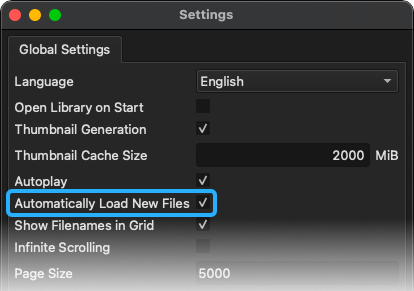
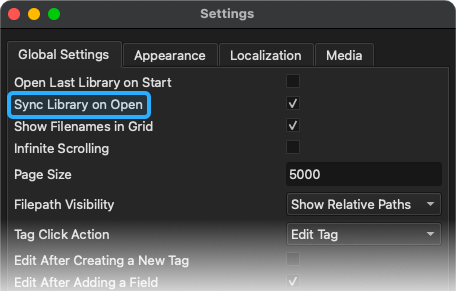
docs: update library sync documentation

diff --git a/docs/stylesheets/extra.css b/docs/stylesheets/extra.css
@@ -80,6 +80,7 @@ img {
 th,
 td {
     padding: 0.5em 1em 0.5em 1em !important;
+    min-width: 0 !important;
 }
 
 hr {

diff --git a/docs/libraries.md b/docs/libraries.md
@@ -33,13 +33,68 @@ To create or open a [library](libraries.md), go to **File -> Open/Create Library
 !!! info "Legacy Library Migration"
     If you open a library created with TagStudio **v9.4.2 or earlier** in **[v9.5.0](changelog.md#950-march-3rd-2025) or later**, you'll be walked through a migration process that converts the old `ts_library.json` save file to the new `ts_library.sqlite` format. The original JSON file is preserved and can be easily deleted from the **View -> Library Information** panel once you're satisfied with the migration.
 
-## :material-database-refresh: Refreshing Directories
+## :material-database-sync: Library Syncing
 
-TagStudio automatically scans for new or updated files when opening a library by default. This behavior can be toggled in the settings if your library is very large and/or located on a slow drive.
+A TagStudio library gets synced with the files found in your chosen content folders and certain metadata attributes (e.g. stats) found on those files. This is a **non-destructive, read-only** process and none of your content files are moved, modified, or deleted. Syncing is indicated by a temporary progress bar, and you can continue to use TagStudio normally while syncing occurs.
 
-![Settings -> Automatically Load New Files](assets/settings_refresh_library_on_open.png)
+Syncing automatically occurs when you open a library by default, and you can manually sync a library at any time by going to **File -> Sync Library** in the menubar to by pressing <kbd>Ctrl</kbd>+<kbd>R</kbd> (<kbd>⌘ Command </kbd>+<kbd>R</kbd> on macOS). If you do not wish for your library to be synced when opened, you can disable this behavior in the settings.
 
-To manually refresh your library at any time, use **File -> Refresh Directories** from the menu or by using <kbd>Ctrl</kbd>+<kbd>R</kbd> (<kbd>⌘ Command </kbd>+<kbd>R</kbd> on macOS).
+<figure markdown="span">
+  ![Settings -> Sync Library on Open](assets/settings_refresh_library_on_open.png)
+  <figcaption>
+  Settings -> Sync Library on Open
+  </figcaption>
+</figure>
+
+### :material-link-variant: Automatic Relinking
+
+Unlinked entries are file entries in your TagStudio library that have become "unlinked" from their original file on disk, likely as a result of the original file being renamed, moved, or deleted. TagStudio attempts to automatically relink any of these entries as a part of the syncing process, but there are some scenarios where automatic relinking is not possible or too ambiguous and requires a manual review. Below is a complete table of every scenario in which file entries can become unlinked, and whether or not TagStudio can auto-relink them:
+
+|     Case | File Moved? | File Renamed? | File Modified? | Unlinked Entries | Matched Files |             Auto-Relink             |
+| -------: | :---------: | :-----------: | :------------: | :--------------: | :-----------: | :---------------------------------: |
+|  **\#0** |    _No_     |     _No_      |    **Yes**     |        0         |       —       | :material-minus-circle:{.lg .gray}  |
+|  **\#1** |      —      |       —       |       —        |        1         |       0       |  :material-close-circle:{.lg .red}  |
+|  **\#2** |   **Yes**   |    **Yes**    |    **Yes**     |        1         |       0       |  :material-close-circle:{.lg .red}  |
+|  **\#3** |   **Yes**   |    **Yes**    |      _No_      |        1         |       1       | :material-check-circle:{.lg .green} |
+|  **\#4** |   **Yes**   |    **Yes**    |      _No_      |        1         |      2+       |  :material-close-circle:{.lg .red}  |
+|  **\#5** |   **Yes**   |    **Yes**    |      _No_      |        2+        |      Any      |  :material-close-circle:{.lg .red}  |
+|  **\#6** |   **Yes**   |     _No_      |    **Yes**     |        1         |       1       | :material-check-circle:{.lg .green} |
+|  **\#7** |   **Yes**   |     _No_      |      _No_      |        1         |       1       | :material-check-circle:{.lg .green} |
+|  **\#8** |   **Yes**   |     _No_      |      _No_      |        1         |      2+       |  :material-close-circle:{.lg .red}  |
+|  **\#9** |   **Yes**   |     _No_      |      _No_      |        2+        |      Any      |  :material-close-circle:{.lg .red}  |
+| **\#10** |    _No_     |    **Yes**    |    **Yes**     |        1         |       0       |  :material-close-circle:{.lg .red}  |
+| **\#11** |    _No_     |    **Yes**    |      _No_      |        1         |       1       | :material-check-circle:{.lg .green} |
+| **\#12** |    _No_     |    **Yes**    |      _No_      |        1         |      2+       |  :material-close-circle:{.lg .red}  |
+| **\#13** |    _No_     |    **Yes**    |      _No_      |        2+        |      Any      |  :material-close-circle:{.lg .red}  |
+
+#### Explanations
+
+- **Case \#0**: _Modifying file content alone does not create unlinked entries._
+- **Case \#1**: If the original file was deleted, no matches will be found. TagStudio leaves the decision to delete entries up to the user.
+- **Case \#2**: If the original file bears no similarities to the unlinked entry anymore, it is indistinguishable from a deleted or new file.
+- **Case \#3**: The file has been moved and renamed with a high degree of confidence.
+- **Case \#4**: If more than one file is matched with the same stats, the case is too ambiguous.
+- **Case \#5**: If two or more entries share the same stats, it's not clear which entry a matched file belongs to.
+- **Case \#6**: The file has been moved and modified, but since no other file shares its filename, it is assumed to be the same file with a decent degree of confidence.
+- **Case \#7**: The original file has been moved with a high degree of confidence.
+- **Case \#8**: If multiple copies of the same moved file are matched in different locations, the case is ambiguous.
+- **Case \#9**: _Similar to **\#5**._ If two or more entries share the same filename and stats, it's not clear which entry a matched file belongs to.
+- **Case \#10**: _Same as **\#2**._
+- **Case \#11**: The file has been renamed with a high degree of confidence.
+- **Case \#12**: _Same as **\#4**._
+- **Case \#13**: _Same as **\#5**._
+
+Every numbered case above assumes the entry has saved file metadata attributes to help match against (added in **v9.7**), in which case the **file modification date** combined with the **file size** is used as a soft file signature to aid in scenarios such as renames or moves. If no file metadata is stored with the file entry, or if this soft file signature doesn't lead to a confident match, TagStudio falls back to matching by filename alone: a single file found with that name is automatically relinked, while zero or multiple filename matches leave the entry unlinked for manual review.
+
+<!-- prettier-ignore -->
+!!! warning
+    There's currently no way to manually specify which remaining unlinked entries should be linked with which files, only to delete the entries from the library. Manual relinking is a high priority feature for future releases.
+
+<!-- prettier-ignore -->
+!!! warning "Switching from a Case-Sensitive to Case-Insensitive Filesystem (i.e. Windows)"
+    If you switch from using TagStudio on a computer with a case-sensitive filesystem to one with a *case-insensitive* one, TagStudio will treat any entries added up to this point with the same filepath + name under case-insensitivity as duplicate entries and merge them. The automatic relinking process will also take case-insensitivity into account when relinking entries.
+
+    Currently, TagStudio only uses this case-insensitivity mode when running on Windows. Future versions will be more precise about this distinction, with the aim of determining the case sensitivity on a per-drive basis.
 
 ## :material-database-cog: Library Information Panel
 

diff --git a/docs/roadmap.md b/docs/roadmap.md
@@ -96,7 +96,7 @@ A detailed specification written for the TagStudio tag and/or library format. In
     - [x] Delete Old Backups **[[v9.5.4](changelog.md#954-september-1st-2025)]**
     - [x] Delete Legacy JSON File **[[v9.5.4](changelog.md#954-september-1st-2025)]**
 - [x] Translations
-- [ ] Search Bar Rework :material-chevron-triple-up:{ .priority-high title="High Priority" } **[v9.6.x]**
+- [ ] Search Bar Rework :material-chevron-triple-up:{ .priority-high title="High Priority" } **[v9.7.x]**
     - [ ] Improved Tag Autocomplete :material-chevron-triple-up:{ .priority-high title="High Priority" }
     - [ ] Tags appear as widgets in search bar _(similar to new tag search/create bar)_ :material-chevron-triple-up:{ .priority-high title="High Priority" }
 - [x] Unified Media Player
@@ -136,7 +136,7 @@ A detailed specification written for the TagStudio tag and/or library format. In
     - [x] Theme
     - [x] Thumbnail Generation **[[v9.5.4](changelog.md#954-september-1st-2025)]**
 - [x] Configurable Page Size
-- [ ] Library Settings :material-chevron-triple-up:{ .priority-high title="High Priority" } **[v9.6.x]**
+- [ ] Library Settings :material-chevron-triple-up:{ .priority-high title="High Priority" } **[v9.7.x]**
     - [ ] Stored in `.TagStudio` folder :material-chevron-triple-up:{ .priority-high title="High Priority" }
 - [ ] Toggle File Extension Label :material-chevron-double-up:{ .priority-med title="Medium Priority" }
 - [ ] Toggle Duration Label :material-chevron-double-up:{ .priority-med title="Medium Priority" }
@@ -149,13 +149,13 @@ A detailed specification written for the TagStudio tag and/or library format. In
 
 - [x] Per-Library Tags
 - [ ] Global Tags :material-chevron-double-up:{ .priority-med title="Medium Priority" } **[v9.8.x]**
-- [ ] Multiple Root Directories :material-chevron-triple-up:{ .priority-high title="High Priority" } **[v9.6.x]**
-    - [ ] Ability to store TagStudio data folder separate from library content folder(s) :material-chevron-triple-up:{ .priority-high title="High Priority" } **[v9.6.x]**
-- [ ] Automatic Entry Relinking :material-chevron-triple-up:{ .priority-high title="High Priority" } **[v9.8.x]**
-    - [ ] Detect Renames :material-chevron-triple-up:{ .priority-high title="High Priority" }
-    - [ ] Detect Moves :material-chevron-triple-up:{ .priority-high title="High Priority" }
-    - [ ] Detect Deletions :material-chevron-triple-up:{ .priority-high title="High Priority" }
-    - [ ] Performant :material-chevron-triple-up:{ .priority-high title="High Priority" }
+- [ ] Multiple Root Directories :material-chevron-triple-up:{ .priority-high title="High Priority" } **[v9.7.x]**
+    - [ ] Ability to store TagStudio data folder separate from library content folder(s) :material-chevron-triple-up:{ .priority-high title="High Priority" } **[v9.7.x]**
+- [x] Automatic Entry Relinking :material-chevron-triple-up:{ .priority-high title="High Priority" } **[v9.7.0]**
+    - [x] Detect Renames :material-chevron-triple-up:{ .priority-high title="High Priority" }
+    - [x] Detect Moves :material-chevron-triple-up:{ .priority-high title="High Priority" }
+    - [ ] Some way to safely handle unlinked entries presumed to be from deleted files automatically (deleted after X days?) :material-chevron-double-up:{ .priority-med title="Medium Priority" }
+    - [x] Performant :material-chevron-triple-up:{ .priority-high title="High Priority" }
 - [ ] Background File Scanning :material-chevron-triple-up:{ .priority-high title="High Priority" }
 - [x] Thumbnail Caching **[[v9.5.0](changelog.md#950-march-3rd-2025)]**
     - [ ] Audio Waveform Caching :material-chevron-double-up:{ .priority-med title="Medium Priority" } **[v9.7.x]**
@@ -166,7 +166,7 @@ A detailed specification written for the TagStudio tag and/or library format. In
 File or file-like [entries](entries.md) stored in the library.
 
 - [x] File Entries **[v1.0.0]**
-- [ ] URL Entries / Bookmarks :material-chevron-up:{ .priority-low title="Low Priority" } **[v9.6.x]**
+- [ ] URL Entries / Bookmarks :material-chevron-up:{ .priority-low title="Low Priority" } **[v9.8.x]**
 - [x] Fields
     - [x] Text Lines
     - [x] Text Boxes
@@ -267,7 +267,7 @@ Discrete library objects representing [attributes](<https://en.wikipedia.org/wik
 Sharable TagStudio library data in the form of data packs (tags, colors, etc.) or other formats.
 Packs are intended as an easy way to import and export specific data between libraries and users, while export-only formats are intended to be imported by other programs.
 
-- [ ] Color Packs :material-chevron-triple-up:{ .priority-high title="High Priority" } **[v9.6.x]**
+- [ ] Color Packs :material-chevron-triple-up:{ .priority-high title="High Priority" } **[v9.7.x]**
     - [ ] Importable
     - [ ] Exportable
     - [x] UUIDs + Namespaces :material-chevron-triple-up:{ .priority-high title="High Priority" }

diff --git a/docs/usage.md b/docs/usage.md
@@ -12,9 +12,13 @@ icon: material/mouse
 
 To create or open a [library](libraries.md), go to **File -> Open/Create Library** in the menu bar or use <kbd>Ctrl</kbd>+<kbd>O</kbd> (<kbd>⌘ Command </kbd>+<kbd>O</kbd> on macOS) and chose a folder with file contents you'd like to use as a TagStudio library. If a `.TagStudio` folder doesn't already exist inside the directory, TagStudio will create one and automatically scan the folder for files to include. Otherwise, the pre-existing library is opened.
 
-### :material-database-refresh: Refreshing Directories
+### :material-database-sync: Library Syncing
 
-TagStudio automatically scans for new or updated files when opening a library by default. Manually refresh by going to **File -> Refresh Directories** in the menu or by using <kbd>Ctrl</kbd>+<kbd>R</kbd> (<kbd>⌘ Command </kbd>+<kbd>R</kbd> on macOS).
+A TagStudio library gets synced with the files found in your content folders. This is a **non-destructive, read-only** process and none of your files are moved, modified, or deleted. Syncing is indicated by a temporary progress bar, and you can continue to use TagStudio normally while syncing occurs.
+
+### :material-link-variant: Automatic Relinking
+
+Files that become moved, renamed, or modified will try to be automatically relinked during syncing. If a file cannot be found or a match cannot be safely made, it will stay unlinked until the entries are manually deleted under "Fix Unlinked Entries". _Manual relinking is a high priority feature for future versions._
 
 <!-- prettier-ignore -->
 !!! abstract "TagStudio Libraries"
@@ -112,20 +116,6 @@ Creating and adding fields to entries is extremely similar to how [tagging](#tag
   ![Empty File Entry](assets/tag_field_bars/field_bar_search.png){ width=80% }
   <figcaption>Searching for field templates inside the field bar.</figcaption>
 </figure>
-
----
-
-## Relinking Moved Files
-
-Inevitably some of the files inside your library will be renamed, moved, or deleted. If a file has been renamed or moved, TagStudio will display the thumbnail as a red broken chain link. To relink moved files or delete these entries, select the "Manage Unlinked Entries" option under the Tools menu. Click the "Refresh" button to scan your library for unlinked entries. Once complete, you can attempt to "Search & Relink" any unlinked file entries to their respective files, or "Delete Unlinked Entries" in the event the original files have been deleted and you no longer wish to keep their entries inside your library.
-
-<!-- prettier-ignore -->
-!!! warning
-    There is currently no method to relink entries to files that have been renamed - only moved or deleted. This is a high priority for future releases.
-
-<!-- prettier-ignore -->
-!!! warning
-    If multiple matches for a moved file are found (matches are currently defined as files with a matching filename as the original), TagStudio will currently ignore the match groups. Adding a GUI for manual selection, as well as smarter automated relinking, are high priorities for future versions.
 
 ---
 
